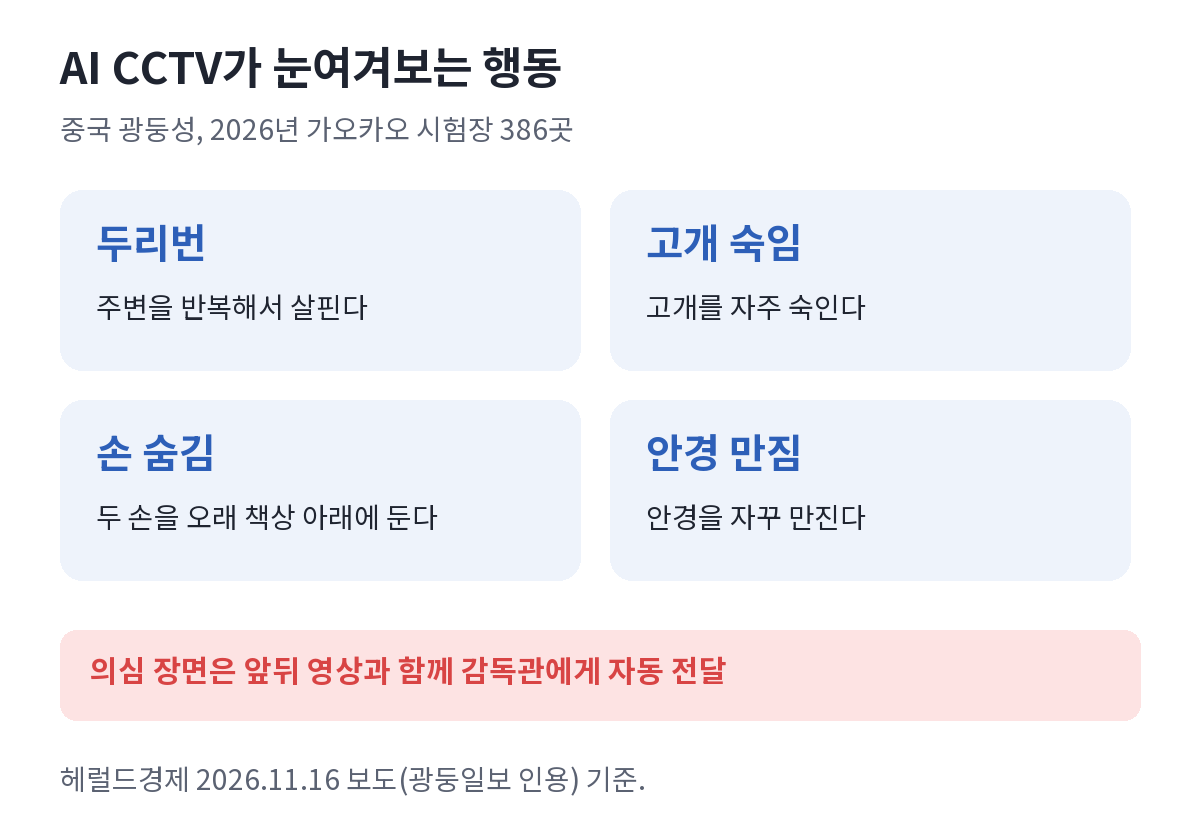
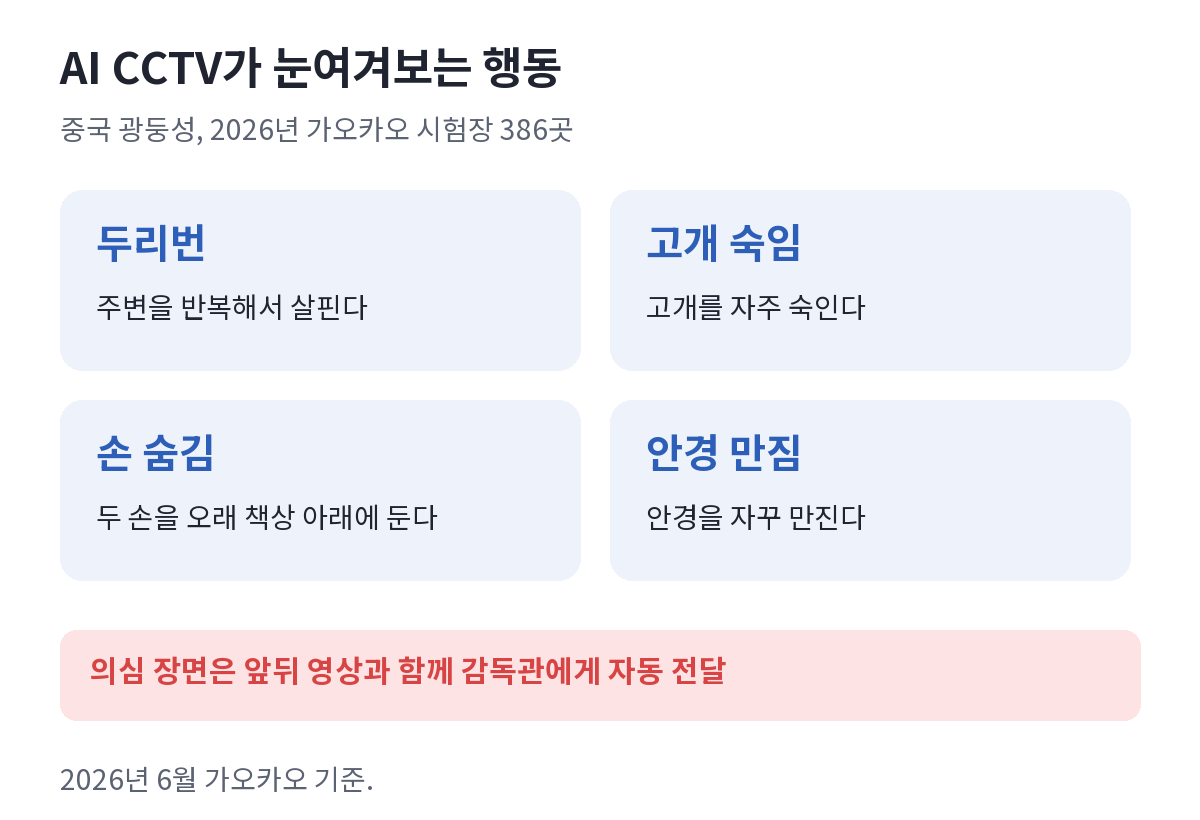
AI 컨닝 글: 본문에서 언론사 인용 삭제, 인용 금지 규칙 기록

Changed region(s): [[0.0308, 0.9146, 0.5242, 0.9756]]

diff --git a/문서/네이버-코딩가이드/20261116_AI컨닝-막는-방법/index.html b/문서/네이버-코딩가이드/20261116_AI컨닝-막는-방법/index.html
@@ -4,13 +4,14 @@
 제목: AI 컨닝, 시험장에서는 어떻게 막을까? 몇 가지 방법 정리
 카테고리: 컴퓨터·IT
 태그: #AI컨닝 #AI부정행위 #스마트안경 #수능 #2027수능 #세무사시험 #전파탐지기 #가오카오 #시험부정행위
-글자 수: 본문 공백 포함 5,789자 / 공백 제외 4,475자 (빨간 글씨 이미지 표시 제외, 줄바꿈 제외, 2026.11.16 기준. 사용자 요청 분량 5,000~7,000자)
+글자 수: 본문 공백 포함 5,626자 / 공백 제외 4,345자 (빨간 글씨 이미지 표시 제외, 줄바꿈 제외, 2026.11.16 기준. 사용자 요청 분량 5,000~7,000자)
 발행 방법: 네이버 편집기에는 HTML 붙여넣기 기능이 없으므로, 이 파일을 브라우저로 연 다음
           본문을 드래그해 복사 → 네이버 편집기에 붙여넣는다.
           본문의 빨간 글씨 [[ 이미지: 제목 (파일명) ]] 자리에 해당 파일을 올리고, 빨간 글씨는 지운다.
           본문에 사용자가 채울 빈칸은 없다(모두 AI가 작성).
 추천 발행 시기: 11월 17~18일 (수능 2026.11.19 목요일 전). 수능이 끝난 뒤 발행하면 "그럼 이번 수능은?" 단락, 도입의 "나흘 뒤",
           감독관 면책 방안("11월 17일까지 마련")처럼 시점이 걸린 문장과 대응 현황을 그때 결과에 맞게 고친다.
+사용자 요청(2026.11.16): 본문에서 언론사 이름을 대는 인용("OO 보도에 따르면", "OO는 ~라고 전했다")을 모두 뺐다. 출처는 이 메모에만 둔다.
 검수 반영(2026.11.16): 세무사 사건 정황은 "본인 말로는/보도에 따르면"으로, 경찰 수사 착수 추가, 수능 연기론은 "일부 정치인 주장"으로,
           합격 취소·응시 제한은 "검토 중, 확정 아님 + 정부는 조사 후 규정에 따라 책임"으로, 전자기기는 "시험실 반입 불가·1교시 전 제출·
           미제출 적발 시 부정행위"로 구분, 스마트안경은 "부정행위로 처리될 수 있다". 이미지 11 문구도 맞췄다.
@@ -59,11 +60,11 @@
 
 <p>점수가 인터뷰로 알려지자 온라인에서 이상하다는 말이 나왔습니다. 그리고 2026년 11월 15일, 이 합격자는 유튜브 방송에서 부정행위를 털어놓았습니다. 본인 말로는 초소형 카메라로 문제를 찍어 AI에 보내고 답을 확인했다고 합니다. 이후 서울경찰청에 자수서를 냈고, 경찰이 수사에 들어갔습니다.</p>
 
-<p>제가 더 놀란 건 시험장 이야기였습니다. 보도에 따르면 이 사람의 자리는 교단 가까운 가운데였고, 감독위원도 두 명 있었습니다. 그런데 당시에는 아무도 이상한 행동을 알아채지 못했다고 합니다.</p>
+<p>제가 더 놀란 건 시험장 이야기였습니다. 이 사람은 교단 가까운 가운데 자리에 앉았고, 감독위원도 두 명 있었다고 합니다. 그런데 그때는 아무도 이상한 낌새를 알아채지 못했다고 하네요.</p>
 
 <p>공교롭게도 나흘 뒤인 11월 19일이 수능입니다. 청와대는 15일 긴급회의를 열었고, 16일에는 국무총리가 범정부 긴급 대응팀을 꾸리라고 지시했습니다. 일부 정치인은 수능을 미루자고 주장하기도 했습니다.</p>
 
-<p>그럼 AI 컨닝은 실제로 어떻게 막을 수 있을까요. 국내외 기사에 나온 방법들을 시험이 진행되는 순서대로 모아 봤습니다. 방법마다 한계도 함께 적었습니다.</p>
+<p>그럼 AI 컨닝은 실제로 어떻게 막을 수 있을까요. 지금까지 나온 방법들을 시험이 진행되는 순서대로 모아 봤습니다. 방법마다 한계도 함께 적었습니다.</p>
 
 <p style="color:#e60000;font-weight:bold;">[[ 이미지: 시험 직전의 빈 교실 (02-시험-직전-교실-실사.png) ]]</p>
 
@@ -83,7 +84,7 @@
 
 <p>가장 먼저 떠오르는 건 들어갈 때 검사하는 방법입니다. 공항 보안 검색처럼요.</p>
 
-<p>이 방법을 크게 쓰는 나라는 중국입니다. 헤럴드경제 보도에 따르면 2026년 6월 가오카오(중국의 대학 입학시험) 때 장쑤성 난징에서는 시험장 31곳에 스마트 보안 게이트 65대를 두었습니다. 게이트에서 이상 신호가 나오면 따로 마련한 곳에서 휴대용 금속탐지기로 다시 검사했습니다. 머니투데이는 중국 교육당국이 올해 금속탐지기 검사 2번과 보안 게이트 검사 1번을 의무로 정했다고 전했습니다. 얼굴 인식으로 본인 확인도 합니다.</p>
+<p>이 방법을 크게 쓰는 나라는 중국입니다. 2026년 6월 가오카오(중국의 대학 입학시험) 때 장쑤성 난징에서는 시험장 31곳에 스마트 보안 게이트 65대를 두었다고 합니다. 게이트에서 이상 신호가 나오면 따로 마련한 곳에서 휴대용 금속탐지기로 다시 검사하는 식입니다. 올해는 금속탐지기 검사 2번과 보안 게이트 검사 1번이 의무였고, 얼굴 인식으로 본인 확인도 했습니다.</p>
 
 <p style="color:#e60000;font-weight:bold;">[[ 이미지: 시험장 입구의 보안 검색 (04-보안-검색-실사.png) ]]</p>
 
@@ -91,7 +92,7 @@
 
 <p>우리나라 수능에는 금속탐지기가 없습니다. 교육부는 이번 수능에서 금속탐지기와 전파탐지기를 활용하기는 어렵다고 설명했고, 국회에서는 교육부가 금속탐지기 도입을 거부하고 있다는 비판이 나왔습니다.</p>
 
-<p>다만 금속탐지기에도 약점이 있습니다. 안경에는 원래 나사와 경첩 같은 금속이 들어 있습니다. 금속에 반응하는 것만으로는 일반 안경과 AI 안경을 가르기 어렵습니다. 한국교육개발원 연구자도 금속탐지기만으로는 한계가 뚜렷하다고 봤습니다.</p>
+<p>다만 금속탐지기에도 약점이 있습니다. 안경에는 원래 나사와 경첩 같은 금속이 들어 있습니다. 금속에 반응하는 것만으로는 일반 안경과 AI 안경을 가르기 어렵습니다. 금속탐지기 하나만 믿기는 어렵다는 뜻입니다.</p>
 
 <p>그래서 우리나라는 안경을 직접 들여다보는 쪽을 골랐습니다. 공인회계사 시험은 2026년 2차 시험부터 응시자 안경을 모두 실물로 검사하고, 감독관에게 AI 안경 교육을 했습니다. 수능도 비슷합니다. 시험장마다 스마트안경을 가려내는 전담 인력을 두고, 실물 스마트안경 54개로 감독 인력을 교육했습니다. 매 교시 모든 안경을 점검한다고 합니다.</p>
 
@@ -119,13 +120,13 @@
 
 <p>AI 컨닝 기기는 혼자서는 답을 모릅니다. 찍은 장면을 어딘가로 보내고, 답을 다시 받아야 합니다. 그 사이에 오가는 전파를 잡으면 숨겨 둔 기기를 찾을 수 있습니다.</p>
 
-<p>연합뉴스 보도에 따르면 한국방송통신전파진흥원(KCA)이 이런 장비를 만들고 있습니다. 'AI 스마트글래스 전파탐지기기 개발' 사업을 발주해 들고 다닐 수 있는 장비 개발을 시작했습니다. 저전력 블루투스(BLE) 신호로 스마트안경이 있는지 알아내고, 와이파이로 주고받는 데이터의 양과 패턴도 분석하는 방식입니다.</p>
+<p>이런 장비는 한국방송통신전파진흥원(KCA)이 만들고 있습니다. 'AI 스마트글래스 전파탐지기기 개발' 사업을 발주해 들고 다닐 수 있는 장비 개발을 시작했습니다. 저전력 블루투스(BLE) 신호로 스마트안경이 있는지 알아내고, 와이파이로 주고받는 데이터의 양과 패턴도 분석하는 방식입니다.</p>
 
 <p style="color:#e60000;font-weight:bold;">[[ 이미지: 전파탐지기가 찾는 신호와 못 찾는 경우 (07-전파탐지기.png) ]]</p>
 
 <p>문제는 시기입니다. 이 장비는 올해 수능에는 쓰지 않습니다. 내년 수능부터 도입하는 방안을 검토하는 단계이고, 검증 결과도 아직 공개되지 않았습니다. 전파를 내보내지 않는 기기는 이 방법으로 찾기 어렵다는 지적도 있었습니다. 참고로 한국어능력시험(TOPIK) 시험장에는 2026년 1월에 전파탐지기 보급이 끝났다고 합니다.</p>
 
-<p>중국은 여기서 한 걸음 더 나갑니다. 찾는 데서 그치지 않고 신호를 아예 막습니다. 머니투데이가 외신을 모아 전한 내용을 보면, 중국 교육당국은 모든 5G 주파수 대역의 신호를 막는 장비를 더했고, 드론을 이용한 부정행위에 대비해 드론을 떨어뜨리는 장비까지 두었다고 합니다. 우리나라 수능에서 이렇게 신호를 차단하겠다는 계획은 나오지 않았습니다.</p>
+<p>중국은 여기서 한 걸음 더 나갑니다. 찾는 데서 그치지 않고 신호를 아예 막습니다. 모든 5G 주파수 대역의 신호를 막는 장비를 더했고, 드론을 이용한 부정행위에 대비해 드론을 떨어뜨리는 장비까지 두었다고 알려졌습니다. 우리나라 수능에서 이렇게 신호를 차단하겠다는 계획은 나오지 않았습니다.</p>
 
 <p>&nbsp;</p>
 <hr style="border:none;border-top:1px solid #cfcfcf;margin:8px 0;">
@@ -133,7 +134,7 @@
 
 <p>찾아본 방법 중에서 저는 이것이 가장 흥미로웠습니다. 기기를 찾는 대신, 답을 만들어 주는 AI 쪽을 멈추는 방법입니다.</p>
 
-<p>헤럴드경제가 워싱턴포스트를 인용해 보도한 내용에 따르면, 2025년 가오카오 때 텐센트의 AI 서비스 '위안바오'는 시험 시간에 시험지 사진을 올리면 이미지 인식 기능을 쓸 수 없게 했습니다. 가오카오의 공정성을 위해 시험 시간에는 이 기능을 쓸 수 없다는 안내가 나왔다고 합니다. 딥시크도 시험 문제 사진 인식을 잠시 멈췄습니다. 머니투데이는 중국 매체를 인용해 알리바바와 키미도 같은 기간에 시험지로 보이는 사진을 인식하거나 답과 해설을 내놓는 기능을 멈췄다고 전했습니다.</p>
+<p>2025년 가오카오 때 텐센트의 AI 서비스 '위안바오'에서는 시험 시간에 시험지 사진을 올리면 이미지 인식 기능이 막혔다고 합니다. 가오카오의 공정성을 위해 시험 시간에는 이 기능을 쓸 수 없다는 안내가 떴다고 해요. 딥시크도 시험 문제 사진 인식을 잠시 멈췄고, 알리바바와 키미도 같은 기간에 시험지로 보이는 사진을 알아보거나 답과 해설을 내놓는 기능을 멈췄다고 합니다.</p>
 
 <p style="color:#e60000;font-weight:bold;">[[ 이미지: 시험 시간에 기능을 멈춘 AI 앱 2컷 만화 (08-AI-기능-중지-만화.png) ]]</p>
 
@@ -157,7 +158,7 @@
 
 <p style="color:#e60000;font-weight:bold;">[[ 이미지: 시험이 끝난 뒤 확인하는 흐름 (09-시험-뒤-확인.png) ]]</p>
 
-<p>처벌도 가볍지 않습니다. 세무사 수석 합격자의 경우 합격 취소와 응시 제한이 검토되고 있다는 보도가 나왔지만, 아직 확정된 처분은 아닙니다. 정부는 조사를 거쳐 관련 규정에 따라 책임을 묻겠다는 입장입니다. 비슷한 사건에 대한 법원 판결은 이미 나와 있습니다. 챗GPT로 기능사 필기시험 정답을 구한 응시자는 벌금 300만 원을, AR 스마트안경을 쓴 응시자는 징역 1년에 집행유예 3년을 선고받았습니다.</p>
+<p>처벌도 가볍지 않습니다. 세무사 수석 합격자의 경우 합격 취소와 응시 제한이 검토되고 있지만, 아직 확정된 처분은 아닙니다. 정부는 조사를 거쳐 관련 규정에 따라 책임을 묻겠다는 입장입니다. 비슷한 사건에 대한 법원 판결은 이미 나와 있습니다. 챗GPT로 기능사 필기시험 정답을 구한 응시자는 벌금 300만 원을, AR 스마트안경을 쓴 응시자는 징역 1년에 집행유예 3년을 선고받았습니다.</p>
 
 <p>사후 확인의 진짜 효과는 "나중에라도 들킬 수 있다"는 생각을 심어 시도 자체를 줄이는 데 있다고 봅니다. 다만 점수가 높다는 것만으로 의심받으면, 열심히 공부해서 성적을 올린 사람이 억울해집니다. 총리 지시에 '객관적인 자료로'라는 말이 붙은 이유도 여기에 있을 것 같습니다.</p>
 

diff --git a/AGENTS.md b/AGENTS.md
@@ -121,7 +121,7 @@
 - 히스토리 가이드 후보(2026-11-15 제안, 4번 수능의 역사는 작성함): 한지 유네스코 등재(최종 결정 11.30~12.5 정부간위원회) / 김장 문화의 역사(김장철) / 단종과 영월 청령포('왕과 사는 남자' 흥행) / 순국선열의 날.
 
 ## 진행 상황 (2026-11-16 기준)
-- 2026-11-16: `문서/네이버-코딩가이드/20261116_AI컨닝-막는-방법/index.html` 작성("AI 컨닝, 시험장에서는 어떻게 막을까? 몇 가지 방법 정리", 카테고리 컴퓨터·IT, 검수 반영 후 공백 포함 5,789자). 세무사 시험 수석 합격자 AI 부정행위 자백(11/15)과 정부 대응(11/16) 뉴스에서 사용자가 소재를 정했다. 제목은 사용자가 정했다(띄어쓰기만 "몇 가지"로 고침). **사용자 요청 분량 5,000~7,000자.** 11/15 「AI 안경이 뭐길래」 글(원리·찾기 어려운 이유)과 겹치지 않게 '막는 방법'만 다뤘다: 문 앞(보안 게이트·안경 실물 검사) → 교실(AI CCTV·열 감지) → 전파(KCA 탐지기, 중국 신호 차단) → AI 서비스 기능 중지(중국) → 기기 표시등 → 시험 뒤 확인 → 시험 방식(벨기에 종이 시험) → 이번 수능 → 감독관 책임. 숫자 소제목·정리 목록 없이 숫자 하나("160문제 중 1문제")로 시작했다. **수능 전(11/17~18) 발행해야 한다.**
+- 2026-11-16: `문서/네이버-코딩가이드/20261116_AI컨닝-막는-방법/index.html` 작성("AI 컨닝, 시험장에서는 어떻게 막을까? 몇 가지 방법 정리", 카테고리 컴퓨터·IT, 검수 반영·인용 삭제 후 공백 포함 5,626자). 세무사 시험 수석 합격자 AI 부정행위 자백(11/15)과 정부 대응(11/16) 뉴스에서 사용자가 소재를 정했다. 제목은 사용자가 정했다(띄어쓰기만 "몇 가지"로 고침). **사용자 요청 분량 5,000~7,000자.** 11/15 「AI 안경이 뭐길래」 글(원리·찾기 어려운 이유)과 겹치지 않게 '막는 방법'만 다뤘다: 문 앞(보안 게이트·안경 실물 검사) → 교실(AI CCTV·열 감지) → 전파(KCA 탐지기, 중국 신호 차단) → AI 서비스 기능 중지(중국) → 기기 표시등 → 시험 뒤 확인 → 시험 방식(벨기에 종이 시험) → 이번 수능 → 감독관 책임. 숫자 소제목·정리 목록 없이 숫자 하나("160문제 중 1문제")로 시작했다. **수능 전(11/17~18) 발행해야 한다.**
   - 이미지 11장이 모두 `images/`에 있다: AI 제작 03·05·07·09·11, ChatGPT 제작 01 타이틀(3D)·02 교실·04 보안 검색·06 감독관·10 종이 시험(실사)·08 2컷 만화. 대기 중인 이미지 요청 없음. 남은 일은 사용자의 네이버 발행(수능 전 11/17~18)뿐이다.
   - 2026-11-16 검수 반영: 세무사 사건 정황은 "본인 말로는/보도에 따르면", 수능 연기론은 "일부 정치인 주장", 합격 취소는 "검토 중·확정 아님", 전자기기는 "시험실 반입 불가·1교시 전 제출"로 구분했다. **사건 글 기준: 당사자 진술·보도에서 나온 정황은 출처를 밝혀 공식 확인 사실처럼 쓰지 않는다. 확정되지 않은 처분은 "검토 중"으로 쓴다.**
   - 확인한 기사와 기사끼리 다른 점(합격 취소 주체, 전담 인력 1명씩/1명 이상), 쓰지 않은 것(수능 당일 안내 시각, 덴마크·미국 사례, 전파차단기 법적 근거)은 글 맨 위 주석에 있다.
@@ -194,6 +194,7 @@
   - 04 대화 그림은 실제 대화를 그대로 옮긴 것이 아니라 "맡긴 일을 대화 형식으로 다시 정리했다"고 그림과 본문에 밝혔다. 경험담 글에서 대화·화면을 재구성할 때는 이렇게 표시한다.
   - 처음에 남겼던 빈칸 1곳(가장 편했던 점)은 AI가 "코드를 처음부터 쓰지 않아도 되어 설명·확인에 집중할 수 있었다"로 채웠다. 줄어든 시간 같은 수치는 알 수 없어 쓰지 않았다.
 - 사용자 요청(2026-11-15): 작업 중 중간 안내도 **한글로** 쓴다.
+- **본문에서 언론사 이름을 대는 인용을 하지 않는다**(사용자 요청, 2026-11-16 AI 컨닝 글: 인용을 하면 사람이 쓴 느낌이 확 줄어든다. 글자 수가 줄어도 괜찮다). "OO 보도에 따르면", "OO는 ~라고 전했다", "OO가 외신을 인용해" 같은 문장을 쓰지 않는다. 사실은 글쓴이의 말로 풀어 쓰고, 확인이 덜 된 내용은 "~라고 합니다", "~로 알려졌습니다"로 조심스럽게 쓴다. 정부·기관이 직접 밝힌 내용("교육부는 ~라고 설명했다")은 써도 된다. 출처 링크는 발행 메모에만 둔다. 이미지 아래 출처 문구에도 언론사 이름을 넣지 않는다. 앞서 쓴 글은 고치지 않는다.
 - 2026-11-15: `문서/네이버-코딩가이드/20261115_뱅크시-전시/index.html` 작성("뱅크시 특별전 'Still Here' 다녀온 후기, 얼굴 없는 화가 뱅크시 이야기", 카테고리 여행·취미·문화). 사용자가 2026.10.24(토)에 더현대 서울 ALT.1 전시(7.22~11.3, 종료)를 다녀온 사진 9장을 주었다. 전시 개요(표) → 입구 쥐 그림 → 뱅크시는 누구일까(설치 작품, 로이터 정체 보도는 "주장"으로만) → 스텐실 → 풍선과 소녀·2018 파쇄 사건·2021 재경매 → 꽃을 던지는 사람·쇼핑백을 든 그리스도·베리 리틀 헬프 → 디즈멀랜드 → 연표 → 다녀와서.
   - **사진 규칙(사용자 요청): 사람 얼굴이 나오지 않게 자르고, 모자이크는 되도록 쓰지 않는다.** 사용자 사진 8장을 잘라 썼고, 관람객 얼굴을 피할 수 없는 1장(9번째)은 쓰지 않았다. 원본은 임시 폴더에 있어 저장소에 없다.
   - 12 디즈멀랜드는 처음에 윗부분만 잘랐더니 사용자가 "이상하다"고 해서, 자르지 않고 사람만 지웠다. 방법: OpenCV로 사람 영역을 마스크로 잡고, 행마다 옆 배경 색(그림 선이 있는 쪽은 피하고 무늬 없는 쪽)으로 채운 뒤 세로로 흐리게 섞었다. 사람이 단색에 가까운 배경(문, 벽) 앞에 있으면 이 방법이 잘 된다. 복잡한 배경 앞이면 결과가 어색하니 ChatGPT 이미지 편집으로 지워 달라고 사용자에게 제안한다. `opencv-python-headless`는 임시 가상환경에만 설치했다.
